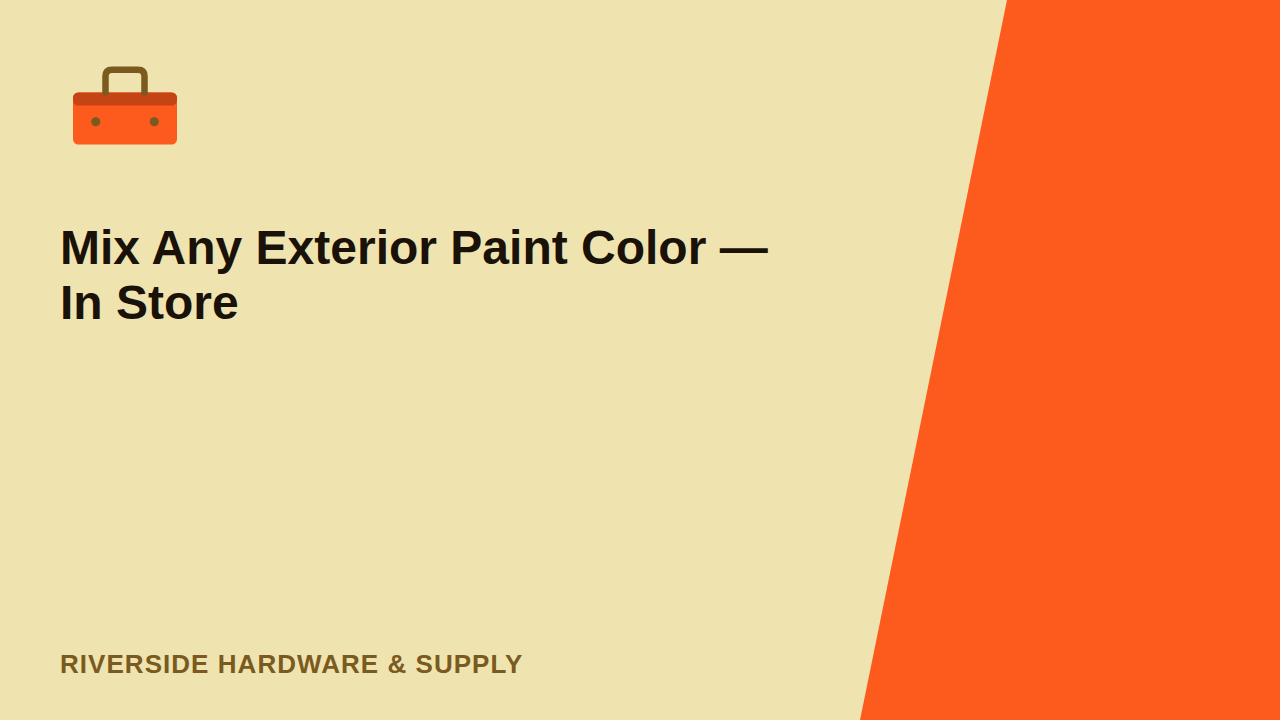
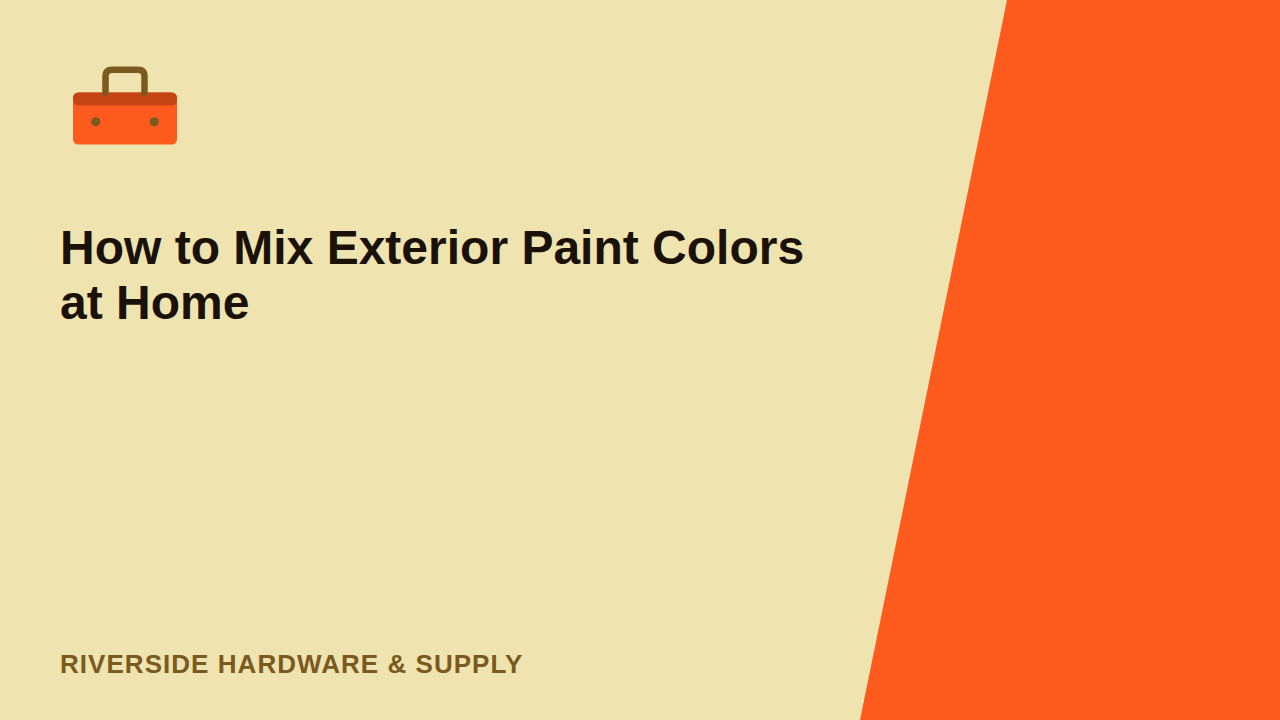
M7: fix item1's over-claiming headline (defective clean control)
item1's thumbnail read 'Mix Any Exterior Paint Color - In Store' while
fact-sheet.md's Services list says only 'Custom paint mixing' - no 'any',
no 'exterior', and nothing about where mixing happens. Under item1's own
rule the runs that failed info_accurate (7/7 -> 5/7 across two split runs
with a byte-identical content-call prompt) were the more compliant ones.

Corrected the fixture, not the answer key: content-items-plan.md already
specified 'no factual claims in the image' and already titled item1 'How
to Mix Exterior Paint Colors at Home'. build.py was what diverged. Moving
the expected result instead would have left one clean control rather than
two, halving the false-positive coverage both controls exist to provide.

Also removes item1 from the headline-exemption boundary: the old headline
was an imperative offering claim, not a topic, so it sat exactly on the
line the Sep 1 info_accurate wording draws - which is the likely reason it
was unstable rather than simply wrong.

Rebuild verified: items 2-5 re-rendered byte-identical (SHA-256), so no
verified fixture moved.

Changed region(s): [[0.0312, 0.3056, 0.625, 0.4583]]

diff --git a/ai-103/iip-docs/m7-riverside-hardware/build.py b/ai-103/iip-docs/m7-riverside-hardware/build.py
@@ -121,7 +121,7 @@ ITEMS = [
         title_color="#1a1208",
         title_size=48,
         icon_svg=toolbox_icon("#FD5A1E", "#c44415", "#7a5a1e", "#7a5a1e"),
-        title="Mix Any Exterior Paint Color &mdash; In Store",
+        title="How to Mix Exterior Paint Colors at Home",
         clutter="",
         badge_html="",
         badge_bg="#FD5A1E",
